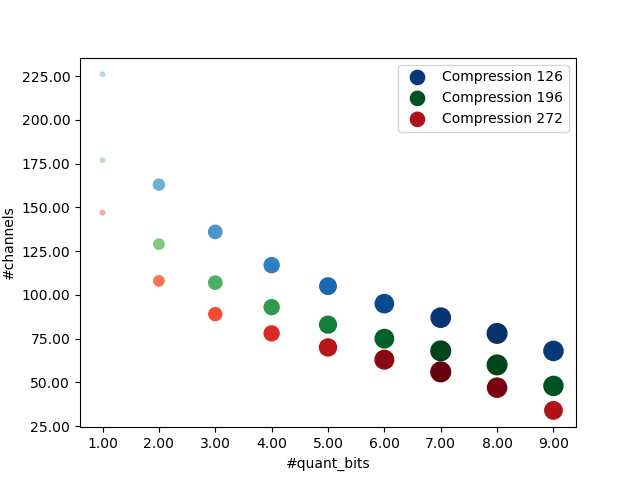
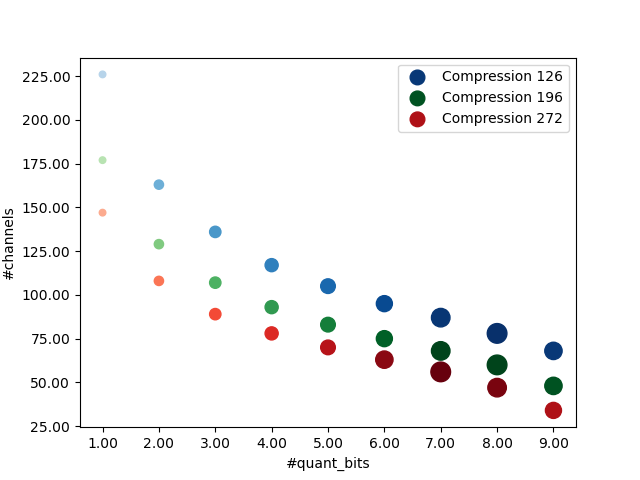
-- Add new Plots for Smallify Hyperparam search, influence of hyperparameters -- Visualize size of scatter plots better

diff --git a/visualization/generatecomprPlot.py b/visualization/generatecomprPlot.py
@@ -4,8 +4,9 @@ from mlflow.tracking import MlflowClient
 import matplotlib.pyplot as plt
 from matplotlib.ticker import FormatStrFormatter
 from pltUtils import generate_array_MLFlow, dict_from_file, append_lists_from_dicts, generate_plot_lists,\
-    normalize_array_0_1, normalize_array
+    normalize_array_0_1, normalize_array, generate_orderedValues
 import numpy as np
+from itertools import product
 
 
 def QuantBitsExperiment():
@@ -351,14 +352,14 @@ def NumberOfChannelsVSCompression():
 
 
 def QuantbitsVSCompressionratio():
-    BASENAME50 = 'experiments/diff_comp_rates/mhd_p_QuantbitsVSCompressionratio/Ratio50/mhd_p_50'
-    BASENAME100 = 'experiments/diff_comp_rates/mhd_p_QuantbitsVSCompressionratio/Ratio100/test_experiment'
-    BASENAME200 = ''# 'experiments/diff_comp_rates/test_experiment_QuantbitsVSCompressionratio/Ratio200/test_experiment'
+    BASENAME50 =  'experiments/diff_comp_rates/test_experiment_QuantbitsVSCompressionratio/Ratio50/test_experiment'#'experiments/diff_comp_rates/mhd_p_QuantbitsVSCompressionratio/Ratio50/mhd_p_50'
+    BASENAME100 =  'experiments/diff_comp_rates/test_experiment_QuantbitsVSCompressionratio/Ratio100/test_experiment'#'experiments/diff_comp_rates/mhd_p_QuantbitsVSCompressionratio/Ratio100/test_experiment'
+    BASENAME200 = 'experiments/diff_comp_rates/test_experiment_QuantbitsVSCompressionratio/Ratio200/test_experiment'
     CONFIGNAME = 'info.txt'
     QUANTNAMECONFIG = 'Dequant_Info.txt'
 
-    experimentNames50=[50,43,36,31,26]
-    experimentNames100 = [100, 82,70,59,49]
+    experimentNames50= [50,38,31,26,21,17,12,8,4]#[50,43,36,31,26]
+    experimentNames100 = [100,65,51,42,34,27,20,14,7]#[100, 82,70,59,49]
     experimentNames200 = [200,106,75,59,48,38,29,20,11]
 
     used_bits50 = []
@@ -409,12 +410,14 @@ def QuantbitsVSCompressionratio():
     c_map2 = plt.get_cmap('Greens')
     c_map3 = plt.get_cmap('Reds')
 
-    plt.scatter(used_bits50, size50, s = [x for x in normalize_array(PSNR50, np.min(PSNR50), np.max(PSNR50), 10, 200)],
+
+
+    plt.scatter(used_bits50, size50, s = [x for x in generate_orderedValues(PSNR50, 200)],
                 c=[c_map1(val) for val in normalize_array(PSNR50, np.min(PSNR50), np.max(PSNR50), 0.3, 1)], label='Compression 126')
-    plt.scatter(used_bits100, size100,s = [x for x in normalize_array(PSNR100, np.min(PSNR100), np.max(PSNR100), 10, 200)],
+    plt.scatter(used_bits100, size100,s = [x for x in generate_orderedValues(PSNR100, 200)],
                 c=[c_map2(val) for val in normalize_array(PSNR100, np.min(PSNR100), np.max(PSNR100), 0.3, 1)], label='Compression 196')
-    #plt.scatter(used_bits200, size200, s = [x for x in normalize_array(PSNR200, np.min(PSNR200), np.max(PSNR200), 10, 200)],
-    #            c=[c_map3(val) for val in normalize_array(PSNR200, np.min(PSNR200), np.max(PSNR200), 0.3, 1)], label='Compression 272')
+    plt.scatter(used_bits200, size200, s = [x for x in generate_orderedValues(PSNR200, 200)],
+                c=[c_map3(val) for val in normalize_array(PSNR200, np.min(PSNR200), np.max(PSNR200), 0.3, 1)], label='Compression 272')
 
     plt.gca().yaxis.set_major_formatter(FormatStrFormatter('%.2f'))
     plt.gca().xaxis.set_major_formatter(FormatStrFormatter('%.2f'))
@@ -422,7 +425,7 @@ def QuantbitsVSCompressionratio():
     plt.ylabel('#channels')
     plt.legend()
 
-    filepath = 'plots/' + 'mhd_p' + '_QuantbitsVSCompressionratio' + '.png'
+    filepath = 'plots/' + 'test_volume' + '_QuantbitsVSCompressionratio' + '.png'
     plt.savefig(filepath)
 
 
@@ -464,17 +467,18 @@ def CompressionGainVSPSNR():
 
 
 def PrunedVSUnpruned():
-    BASENAMEPruned = 'experiments/hyperparam_search/test_experiment_smallify_RandomSearch/test_experimentHyperSearch'
+    BASENAMEPruned = 'experiments/hyperparam_search/test_experiment_smallify_GridSearch/test_experimentHyperSearch'
+    #'experiments/hyperparam_search/test_experiment_smallify_RandomSearch/test_experimentHyperSearch'
     #'experiments/hyperparam_search/mhd_p_Random_betas/mhd_p_HyperSearch'
     #experimentNamesPruned = [0, 1, 2, 3, 4, 5, 6, 7, 8, 9]
 
     experimentNamesPruned = []
-    for i in range(0, 18):
+    for i in range(0, 54):
         experimentNamesPruned.append(i)
 
-    BASENAMEUnpruned = 'experiments/diff_comp_rates/test_experiment_diff_comp_rates/test_experimentComp'
+    BASENAMEUnpruned = 'experiments/diff_comp_rates/test_experiment_diff_comp_rates_otherHyper/test_experiment'
     #'experiments/diff_comp_rates/mhd_p_diffCompRates/mhd_p_'
-    experimentNamesUnpruned = [20,50,100,150,200,300,400]
+    experimentNamesUnpruned = [50,100,150,200,300]
 
     QUANTNAMECONFIG = 'Dequant_Info.txt'
 
@@ -503,8 +507,61 @@ def PrunedVSUnpruned():
     plt.ylabel('psnr')
     plt.legend()
 
-    filepath = 'plots/' + 'test_volume_' + 'PrunedVSUnpruned' + '.png'
+    filepath = 'plots/' + 'test_volume_GridSearch_' + 'PrunedVSUnpruned' + '.png'
     plt.savefig(filepath)
+
+def influenceSmallifyParameter():
+    BASENAMEPruned = 'experiments/hyperparam_search/test_experiment_smallify_GridSearch/test_experimentHyperSearch'
+    experimentNamesPruned = []
+    for i in range(0, 54):
+        experimentNamesPruned.append(i)
+
+    CONFIGNAME = 'config.txt'
+    QUANTNAMECONFIG = 'Dequant_Info.txt'
+
+    lrPruned = []
+    grad_lambdaPruned = []
+    lambda_betasPruned = []
+    lambda_weightsPruned = []
+
+    compressionRatioPruned = []
+    rmsePruned = []
+
+    # M: generate lists...
+    generate_plot_lists(([lrPruned, grad_lambdaPruned, lambda_betasPruned, lambda_weightsPruned],
+                         [compressionRatioPruned, rmsePruned],),
+                        (['lr', 'grad_lambda', 'lambda_betas', 'lambda_weights'],
+                         ['Quant_Compression_Ratio', 'rmse'],),
+                        BASENAMEPruned, (CONFIGNAME, QUANTNAMECONFIG,), experiment_names=experimentNamesPruned)
+
+    random_search_spaces = {
+        "lr": ([0.0001, 0.0007]),
+        "grad_lambda": ([1e-04, 1e-05, 1e-06]),
+        "lambda_betas": ([3e-04, 3e-05, 3e-06]),
+        "lambda_weights": ([1e-06, 1e-05]),
+    }
+    for instance in product(*random_search_spaces.values()):
+
+        xAxis = []
+        compr_rmse = []
+
+        for i in range(0, 54):
+            if lrPruned[i] == instance[0] \
+                    and lambda_betasPruned[i] == instance[2]\
+                    and grad_lambdaPruned[i] == instance[1]\
+                    :
+                compr_rmse.append(compressionRatioPruned[i] / rmsePruned[i])
+                #xAxis.append(lambda_betasPruned[i])
+                xAxis.append(lambda_weightsPruned[i])
+
+        plt.plot(xAxis, compr_rmse, label='')
+
+    plt.xlabel('lambda_weight')
+    plt.ylabel('compr/rmse')
+    filepath = 'plots/' + 'test_volume_GridSearch_' + 'InfluenceParameter_weight' + '.png'
+    plt.savefig(filepath)
+
+
 
 
 if __name__ == '__main__':
@@ -514,6 +571,7 @@ if __name__ == '__main__':
     #QuantVsOrigExperiment()
     #OrigVSSelfImplmentation()
     #NumberOfChannelsVSCompression()
-    #QuantbitsVSCompressionratio()
+    QuantbitsVSCompressionratio()
     #CompressionGainVSPSNR()
-    PrunedVSUnpruned()
+    #PrunedVSUnpruned()
+    #influenceSmallifyParameter()

diff --git a/test.py b/test.py
@@ -10,6 +10,7 @@ import os
 from model.model_utils import compute_num_neurons
 import matplotlib.pyplot as plt
 from matplotlib.ticker import FormatStrFormatter
+from itertools import product
 
 
 def emaTest2():
@@ -82,12 +83,13 @@ def psnr_test():
 
 
 def plotTest():
-    BASENAMEPruned = 'experiments/hyperparam_search/test_experiment_smallify_RandomSearch/test_experimentHyperSearch'
+    BASENAMEPruned = 'experiments/hyperparam_search/test_experiment_smallify_GridSearch/test_experimentHyperSearch'
+    # 'experiments/hyperparam_search/test_experiment_smallify_RandomSearch/test_experimentHyperSearch'
     # 'experiments/hyperparam_search/mhd_p_Random_betas/mhd_p_HyperSearch'
     # experimentNamesPruned = [0, 1, 2, 3, 4, 5, 6, 7, 8, 9]
 
     experimentNamesPruned = []
-    for i in range(0, 18):
+    for i in range(0, 54):
         experimentNamesPruned.append(i)
 
     BASENAMEUnpruned = 'experiments/diff_comp_rates/test_experiment_diff_comp_rates/test_experimentComp'
@@ -98,14 +100,24 @@ def plotTest():
 
     compressionRatioPruned = []
     PSNRPruned = []
-
-    compressionRatioUnpruned = []
-    PSNRUnpruned = []
+    rmsePruned = []
 
     # M: generate lists...
-    pu.generate_plot_lists(([compressionRatioPruned, PSNRPruned],),
-                        (['Quant_Compression_Ratio', 'psnr'],),
+    pu.generate_plot_lists(([compressionRatioPruned, PSNRPruned, rmsePruned],),
+                        (['Quant_Compression_Ratio', 'psnr', 'rmse'],),
                         BASENAMEPruned, (QUANTNAMECONFIG,), experiment_names=experimentNamesPruned)
+
+    largestGain = 0
+    largestExp = 0
+    for i in range(0, 54):
+        if PSNRPruned[i] > 41.0:
+            print(i, ' Ratio: ', compressionRatioPruned[i] / rmsePruned[i])
+            if compressionRatioPruned[i] > largestGain:
+                largestGain = compressionRatioPruned[i]
+                largestExp = i
+
+    print("Most Compression: ",largestGain, " At: ", largestExp)
+
     pass
 
 

diff --git a/visualization/pltUtils.py b/visualization/pltUtils.py
@@ -80,5 +80,17 @@ def generate_plot_lists(lists: ([]), keys: ([]), BASENAME, config_names: (), exp
 def normalize_array_0_1(data):
     return (data - np.min(data)) / (np.max(data) - np.min(data))
 
+
 def normalize_array(array, minV, maxV, minN, maxN):
     return (maxN-minN) * ((array - minV) / (maxV - minV)) + minN
+
+
+def generate_orderedValues(data, highestValue):
+    steps = highestValue/len(data)
+    np_array = np.array(data)
+    data_sorted = np.argsort(np_array)
+
+    for sort, index in enumerate(data_sorted):
+        np_array[index] = steps * (sort+1)
+
+    return np_array

diff --git a/NeurcompHyperparameterSearch.py b/NeurcompHyperparameterSearch.py
@@ -15,7 +15,7 @@ if __name__ == '__main__':
         "lr": ([0.0001, 0.0007]),
         "grad_lambda": ([1e-04, 1e-05, 1e-06]),
         "lambda_betas": ([3e-04, 3e-05, 3e-06]),
-        "lambda_weights": ([1e-06, 1e-05, 1e-06]),
+        "lambda_weights": ([1e-06, 1e-05, 1e-07]),
         #"pruning_threshold": ([0.7, 0.95], 'float')
     }
 
